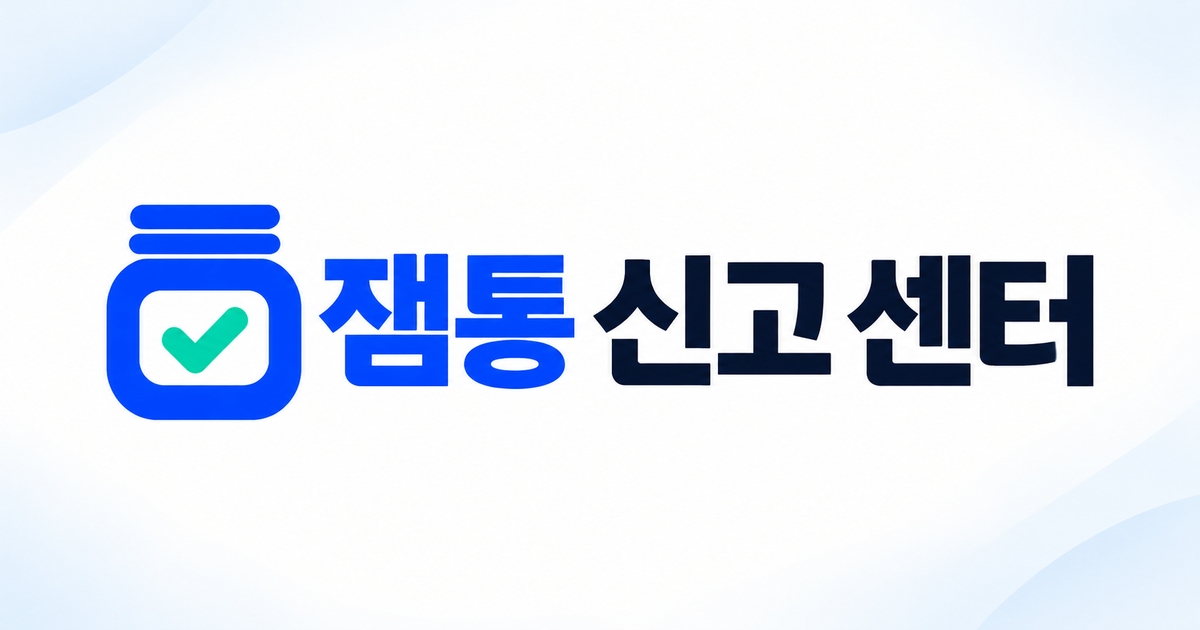
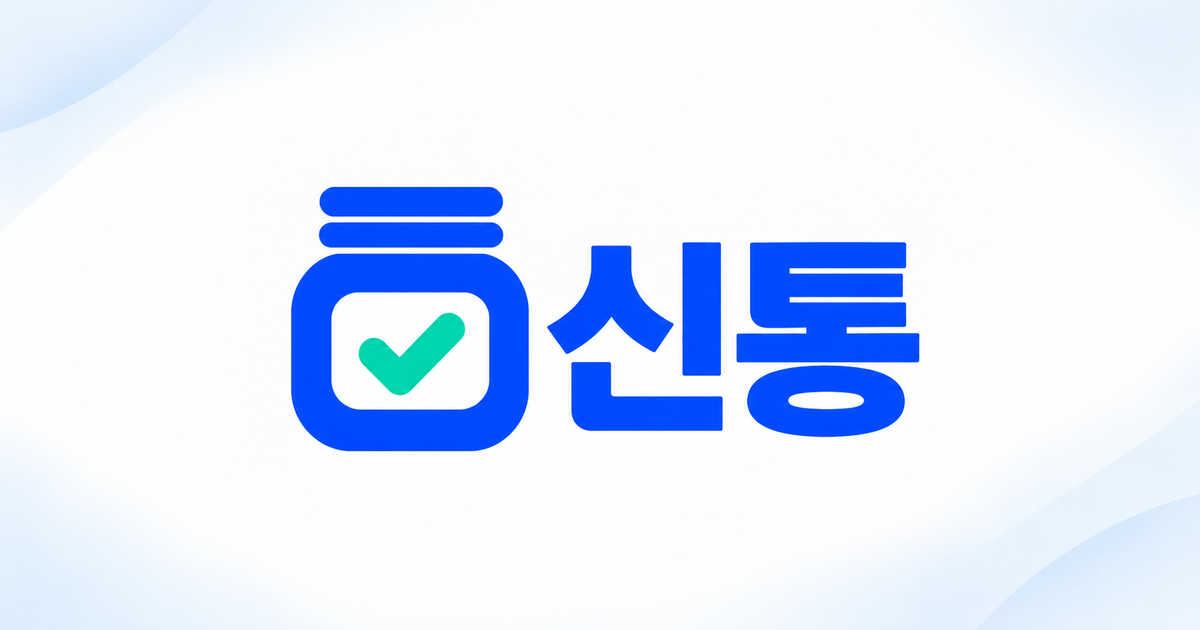
feat(apps): 신고 센터의 바뀐 이름 '신통'으로 자매 앱을 표시한다
히어로 이미지도 bot.jamtong.kr이 지금 쓰는 공유 카드로 바꾼다.

Changed region(s): [[0.0617, 0.2714, 0.925, 0.7238]]

diff --git a/src/app/apps/page.tsx b/src/app/apps/page.tsx
@@ -8,7 +8,7 @@ import { BottomNav } from "@/features/app/BottomNav";
 
 export const metadata: Metadata = {
   title: "자매 앱",
-  description: "잼통과 같은 곳에서 만드는 앱을 모았습니다. 임통, 통통, 속통, 잼통 신고 센터, 잼통 Voice.",
+  description: "잼통과 같은 곳에서 만드는 앱을 모았습니다. 임통, 통통, 속통, 신통, 잼통 Voice.",
   alternates: { canonical: "/apps" },
 };
 

diff --git a/src/features/home/HomeFeed.tsx b/src/features/home/HomeFeed.tsx
@@ -360,7 +360,7 @@ export function HomeFeed({
             잼통 자매 앱
           </span>
           <span className="mt-1 block text-[12px] leading-relaxed text-ash">
-            임통 · 통통 · 속통 · 잼통 신고 센터 · 잼통 Voice
+            임통 · 통통 · 속통 · 신통 · 잼통 Voice
           </span>
         </span>
         <span aria-hidden="true" className="shrink-0 text-[13px] text-ash">

diff --git a/src/content/apps.ts b/src/content/apps.ts
@@ -51,7 +51,7 @@ const raw: z.input<typeof sisterAppSchema>[] = [
   },
   {
     id: "bot",
-    name: "잼통 신고 센터",
+    name: "신통",
     tagline: "팩트 체크 댓글",
     description:
       "인스타그램에 도는 정부 정책 관련 가짜 뉴스를 신고하면, 근거를 확인한 팩트 체크 결과를 그 게시물에 댓글로 답니다.",
